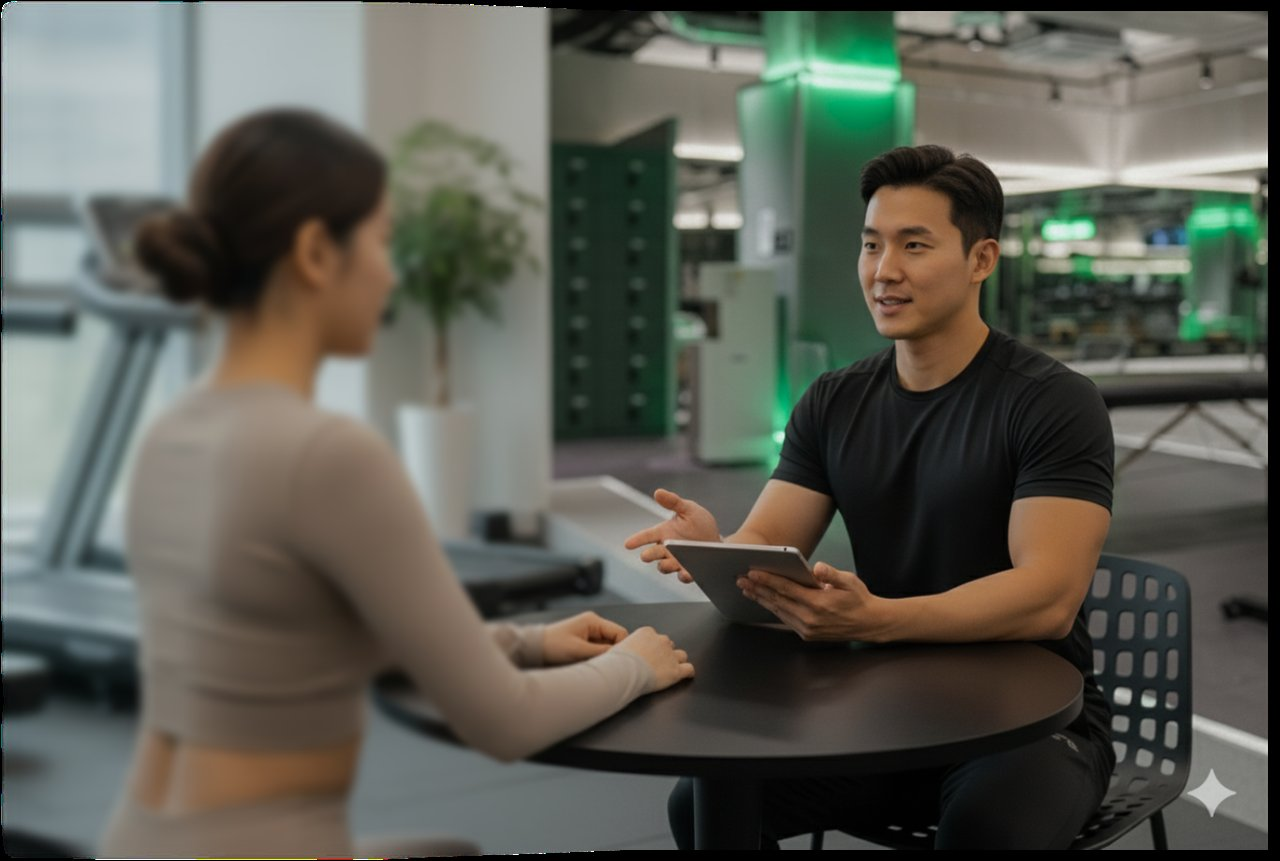
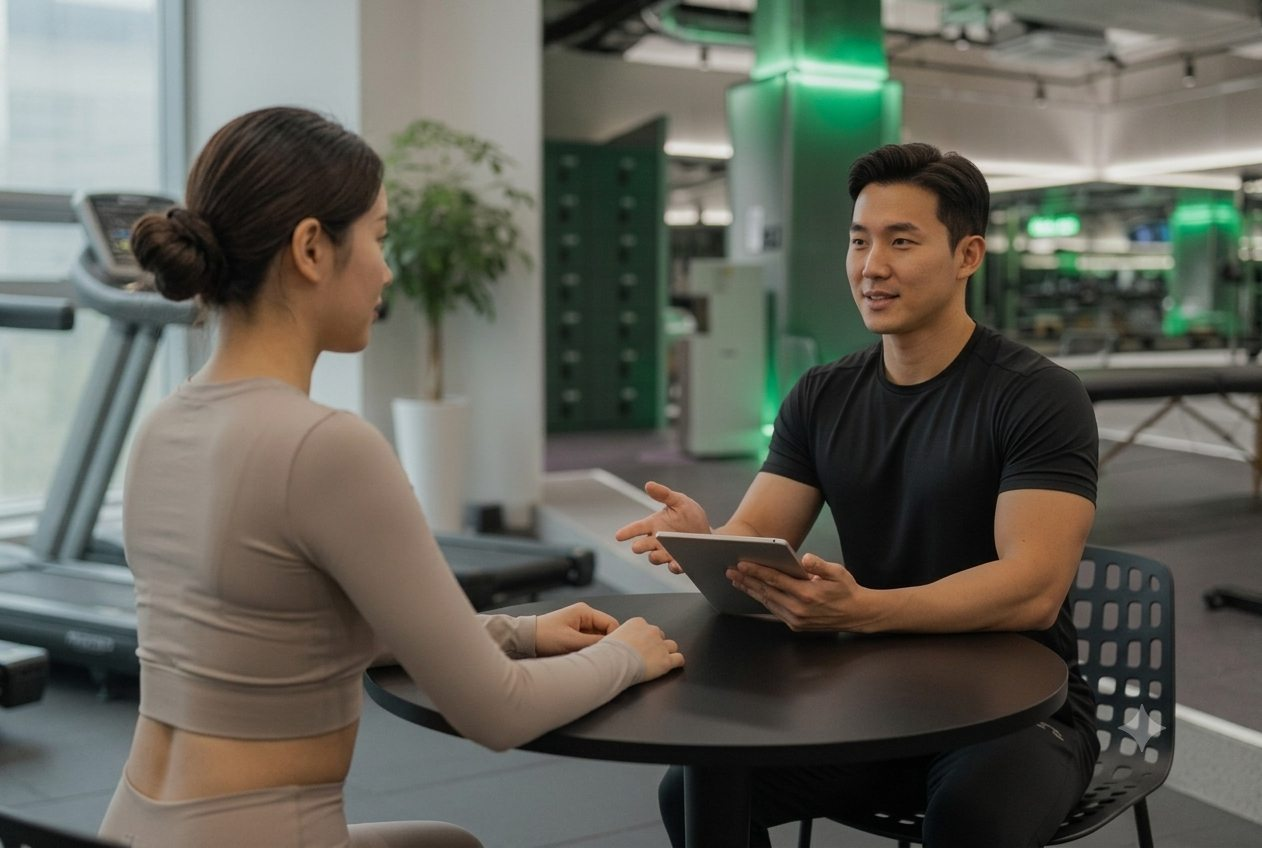
♻ refactor: 이미지 교체 · 서사 연결 · 검증 토글화 · 전반 카피 다이어트
이미지
- 히어로/설계 수정본 교체 (1264px·1262px, System.Drawing 리사이즈)
- PROBLEM 섹션 이미지 제거 → 텍스트 온리 narrow 레이아웃

서사 연결 (1~3 → 4 STEP PT가 툭 튀는 문제)
- PROBLEM 끝: "혼자 하는 게 어려운 겁니다" → WHY가 '혼자'를 받음
- WHY 끝: "나와 맞는 사람은, 어떻게 찾을까요" 질문으로 마감(그린 강조)
- 앵커 리드: "흐지부지되지 않는" → "그 답을, 네 단계로 만들었습니다"
  앞 질문에 대한 답변으로 바꿔 코인드 텀 진입을 논리적으로 연결
- "~가 아닙니다" 반복 패턴 제거

검증 간소화 + 토글
- details/summary로 전환. 요약 1줄만 상시 노출, 근거는 접힘
- 각 단계 3칩(총 11개) 제거 → 제목 + 한 줄 요약으로 축약
- 단계 카드 제거, 레일+마커만으로 구조화 (박스 중첩 해소)
- 결론 블록은 summary와 중복이라 삭제

카피 다이어트
- STEP2 약속/갤러리/체크리스트 중복 리드 3개 제거
- STEP3·4 리드 압축

diff --git a/index.html b/index.html
@@ -35,33 +35,26 @@
   <div class="hero__scroll" aria-hidden="true"><i></i><i></i><i></i></div>
 </section>
 
-<!-- ============ 공감 · 문제 (타겟+문제 병합) ============ -->
+<!-- ============ 문제 (텍스트 온리 · 다음 섹션으로 질문을 넘김) ============ -->
 <section class="section">
-  <div class="container">
-    <div class="split split--reverse">
-      <div class="split__text reveal">
-        <p class="eyebrow">Problem</p>
-        <h2 class="headline">혼자서는, 왜 늘<br>흐지부지됐을까요.</h2>
-        <p class="lead">조금만 신경 써도 금방 돌아오던 몸이었는데. 헬스장도 끊어보고 영상도 찾아봤지만, 한 달 두 달 몸은 그대로였죠.</p>
-        <p class="lead">운동이 어려운 게 아닙니다. <span class="hl">혼자 하는 게 어려운 겁니다.</span></p>
-      </div>
-      <div class="split__media reveal">
-        <div class="figure figure--4-3 figure--photo">
-          <img src="assets/img/target-tired.jpg" alt="카페에서 목과 허리를 짚으며 지친 표정의 직장인" loading="lazy">
-        </div>
-      </div>
+  <div class="container container--narrow">
+    <div class="reveal">
+      <p class="eyebrow">Problem</p>
+      <h2 class="headline">혼자서는, 왜 늘<br>흐지부지됐을까요.</h2>
+      <p class="lead">헬스장도 끊어보고 영상도 찾아봤지만, 한 달 두 달 몸은 그대로였죠. 의지가 부족해서가 아닙니다.</p>
+      <p class="lead">운동이 어려운 게 아니라, <span class="hl">혼자 하는 게 어려운 겁니다.</span></p>
     </div>
   </div>
 </section>
 
-<!-- ============ 원인 분석 ============ -->
+<!-- ============ 원인 (앞의 '혼자'를 받아 → 질문으로 앵커에 넘김) ============ -->
 <section class="section section--surface">
   <div class="container container--narrow">
     <div class="reveal">
       <p class="eyebrow">Why</p>
       <h2 class="headline">나와 맞는 사람을,<br>아직 못 만나서입니다.</h2>
-      <p class="lead">의지가 부족한 게 아닙니다. 방향을 잡아주고, 내 속도에 맞춰줄 사람이 곁에 없었을 뿐이에요.</p>
-      <p class="lead">그런데 PT를 알아보면 자격증도 경력도 다 비슷해 보입니다. 나와 맞는 사람은, 어떻게 찾을까요.</p>
+      <p class="lead">방향을 잡아주고, 내 속도에 맞춰줄 한 사람. 그 사람이 곁에 없었을 뿐이에요.</p>
+      <p class="lead">그래서 PT를 알아보지만 — 자격증도 경력도 다 비슷해 보입니다. <span class="hl">나와 맞는 사람은, 어떻게 찾을까요.</span></p>
     </div>
   </div>
 </section>
@@ -73,7 +66,7 @@
   <div class="container">
     <!-- 각인 락업: 리드 → 초대형 텀 → 태그라인 -->
     <div class="anchor reveal">
-      <p class="anchor__lead">흐지부지되지 않는</p>
+      <p class="anchor__lead">그 답을, 네 단계로 만들었습니다</p>
       <h2 class="anchor__term">
         <span class="anchor__term-a">4 STEP</span>
         <span class="anchor__term-b">PT</span>
@@ -192,63 +185,40 @@
       </div>
     </div>
 
-    <!-- 트레이너 검증 — 네 단계 관문 (합류 전 3단계 + 현장 3개월) -->
-    <div class="verify reveal">
-      <div class="verify__inner">
-        <p class="subhead">경력만 보고 뽑지 않습니다.</p>
-        <p class="body">버핏그라운드 트레이너는 <span class="hl">네 단계</span>를 지나야 회원님 앞에 섭니다.</p>
-
+    <!-- 트레이너 검증 — 요약 1줄 노출 + 근거는 토글로 접기 -->
+    <details class="vet-toggle reveal">
+      <summary class="vet-toggle__sum">
+        <span class="vet-toggle__lead">경력만 보고 뽑지 않습니다. <strong>네 단계 검증</strong>을 통과한 트레이너만 회원님 앞에 섭니다.</span>
+        <span class="vet-toggle__cue" aria-hidden="true"></span>
+      </summary>
+      <div class="vet-toggle__body">
         <ol class="vet">
           <li class="vet__step">
             <span class="vet__num">1</span>
             <div class="vet__body">
               <p class="vet__t">서류심사</p>
-              <p class="vet__d">객관적인 자격부터 확인합니다.</p>
-              <ul class="vet__list">
-                <li>최소 3년 이상의 PT 경력</li>
-                <li>국내외 공인 트레이너 자격증</li>
-                <li>이전 센터 경력과 기록 검증</li>
-              </ul>
+              <p class="vet__d">3년 이상 경력, 공인 자격증, 이전 센터 기록까지 확인합니다.</p>
             </div>
           </li>
-
           <li class="vet__step">
             <span class="vet__num">2</span>
             <div class="vet__body">
               <p class="vet__t">인터뷰</p>
-              <p class="vet__d">실력과 태도를 직접 확인합니다.</p>
-              <ul class="vet__list">
-                <li>운동 처방과 안전 관리 전문성</li>
-                <li>상담과 피드백 역량</li>
-                <li>책임감 있는 수업 운영 능력</li>
-              </ul>
+              <p class="vet__d">운동 처방과 안전 관리 전문성, 책임감 있는 수업 운영 능력을 직접 봅니다.</p>
             </div>
           </li>
-
           <li class="vet__step">
             <span class="vet__num">3</span>
             <div class="vet__body">
               <p class="vet__t">철학 공유</p>
-              <p class="vet__d">버핏그라운드가 생각하는 PT를 맞춥니다.</p>
-              <p class="vet__quote">체험을 파는 게 아니라, 내 몸 관리하는 법을 체험하게 한다.</p>
-              <ul class="vet__list">
-                <li>변화를 설계하고 함께 추적하기</li>
-                <li>신뢰를 기반으로 한 파트너십</li>
-              </ul>
+              <p class="vet__d">“체험을 파는 게 아니라, 내 몸 관리하는 법을 체험하게 한다” — 이 기준을 맞춥니다.</p>
             </div>
           </li>
-
           <li class="vet__step vet__step--final">
             <span class="vet__num vet__num--pass" aria-hidden="true">✓</span>
             <div class="vet__body">
-              <p class="vet__flag">마지막 관문</p>
               <p class="vet__t">현장 3개월 검증</p>
-              <p class="vet__d">합류한 뒤에도, 실제 수업을 3개월간 지켜봅니다.</p>
-              <ul class="vet__list">
-                <li>회원 만족도와 피드백</li>
-                <li>수업 기록 준수와 책임감</li>
-                <li>철학을 실제로 실행하는지</li>
-              </ul>
+              <p class="vet__d">합류한 뒤에도 회원 만족도와 수업 기록을 3개월간 지켜봅니다.</p>
             </div>
           </li>
         </ol>
@@ -261,13 +231,8 @@
             <li>노쇼나 실수에 책임지지 않는 사람</li>
           </ul>
         </div>
-
-        <div class="verify-gate">
-          <p class="verify-gate__t">이 네 단계를 모두 지나온 사람만, <strong>회원님을 만납니다.</strong></p>
-          <p class="verify-gate__d">그래서 어떤 트레이너를 만나도 마음 놓으셔도 돼요. 이제 남은 건 나와 결이 맞는지, 그것 하나입니다.</p>
-        </div>
       </div>
-    </div>
+    </details>
   </div>
 </section>
 
@@ -291,13 +256,12 @@
     <!-- 세일즈 없음 약속 -->
     <div class="promise reveal">
       <p class="promise__title">체험 2회 동안, <span class="hl">세일즈는 없습니다.</span></p>
-      <p class="promise__desc">결제를 권하는 시간이 아닙니다. 내 몸을 살펴보고, 앞으로의 길을 함께 그려보는 시간이에요. 계속할지는 설계서를 받아본 뒤에, 천천히 정하시면 됩니다.</p>
+      <p class="promise__desc">내 몸을 살펴보고, 앞으로의 길을 함께 그려보는 시간이에요. 계속할지는 설계서를 받아본 뒤에 정하시면 됩니다.</p>
     </div>
 
     <!-- 내몸변화설계서 실물 갤러리 -->
     <div class="reveal" style="margin-top:var(--sp-3xl)">
       <p class="subhead">체험이 끝나면, 이런 설계서를 받습니다.</p>
-      <p class="body">체험 때 살펴본 내용을 바탕으로 트레이너가 직접 써주는, 나만을 위한 리포트예요.</p>
       <div class="doc-gallery">
         <div class="doc">
           <div class="figure figure--3-4 figure--doc"><img src="assets/img/doc-cover.png" alt="내 몸 변화 설계서 표지" loading="lazy"></div>
@@ -324,7 +288,6 @@
 
     <div style="margin-top:var(--sp-3xl)" class="reveal">
       <p class="subhead">체험하는 동안, 이 네 가지도 살펴보세요.</p>
-      <p class="body">계속할지 정하는 데, 좋은 기준이 되어줄 거예요.</p>
       <div class="checklist">
         <div class="check"><span class="check__ic">✓</span><span class="check__tx">너무 힘들지는 않았는지</span></div>
         <div class="check"><span class="check__ic">✓</span><span class="check__tx">설명이 이해하기 쉬웠는지</span></div>
@@ -342,8 +305,8 @@
       <div class="split__text reveal">
         <div class="step-head"><span class="step-head__num">03</span><span class="step-head__name">기록</span></div>
         <h2 class="headline">수업이 끝나도,<br>남는 수업.</h2>
-        <p class="lead">그날 배운 동작, 돌아서면 잊어버리죠. 그래서 버핏그라운드는 매 수업을 전용 앱에 기록으로 남깁니다. 동작과 트레이너가 짚어준 포인트, 출석까지 전부요.</p>
-        <p class="lead">PT 없는 날에도 꺼내 보는 나만의 운동 노트가 됩니다. 좋은 PT는 의존하게 만들지 않아요 — <span class="hl">혼자서도 해낼 수 있게 돕습니다.</span></p>
+        <p class="lead">그날 배운 동작, 돌아서면 잊어버리죠. 그래서 매 수업을 전용 앱에 남깁니다. 동작과 짚어준 포인트, 출석까지요.</p>
+        <p class="lead">PT 없는 날에도 꺼내 보는 운동 노트가 됩니다. 좋은 PT는 의존하게 만들지 않아요 — <span class="hl">혼자서도 해낼 수 있게 돕습니다.</span></p>
       </div>
       <div class="split__media reveal" style="display:flex;justify-content:center">
         <div class="phone">
@@ -379,7 +342,7 @@
       <div class="step-head"><span class="step-head__num">04</span><span class="step-head__name">변화</span></div>
       <span class="coming">데이터 리포트 · 2027 상반기 도입 예정</span>
       <h2 class="headline">느낌이 아니라,<br>데이터로.</h2>
-      <p class="lead">정말 나아지고 있는 걸까? 느낌만으로는 알기 어렵습니다. 8회마다 <span class="hl">내몸변화 리포트</span>가 쌓여, 처음의 나와 지금의 나를 데이터로 나란히 보여드릴 예정이에요. 인바디와 체형 검사를 기반으로요.</p>
+      <p class="lead">정말 나아지고 있는 걸까? 8회마다 쌓이는 <span class="hl">내몸변화 리포트</span>가 처음의 나와 지금의 나를 나란히 보여드릴 예정이에요. 인바디와 체형 검사를 기반으로요.</p>
     </div>
 
     <div class="reveal" style="margin-top:var(--sp-2xl)">
